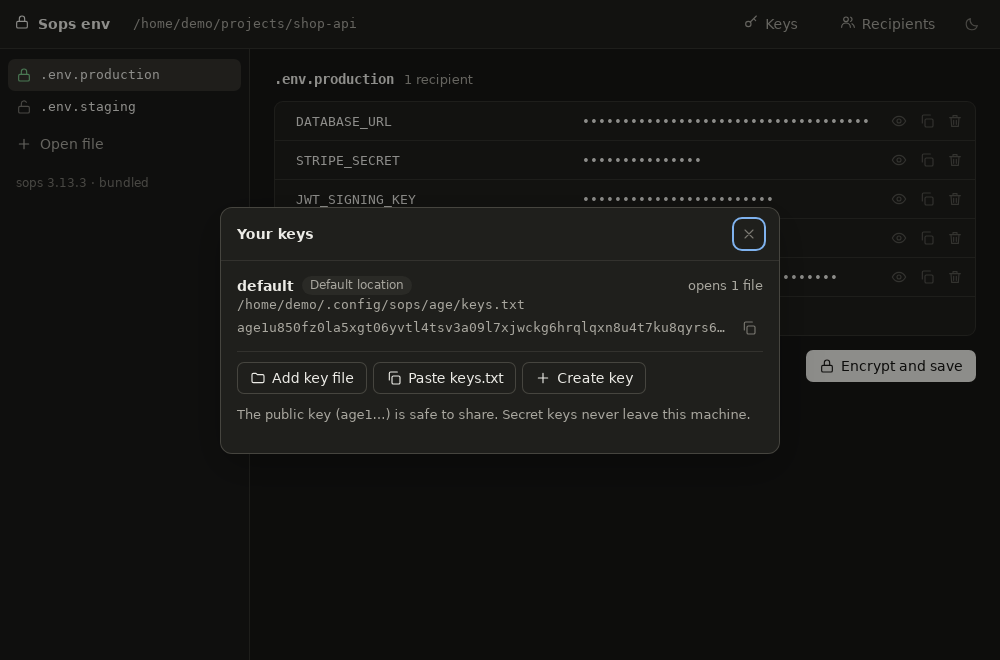
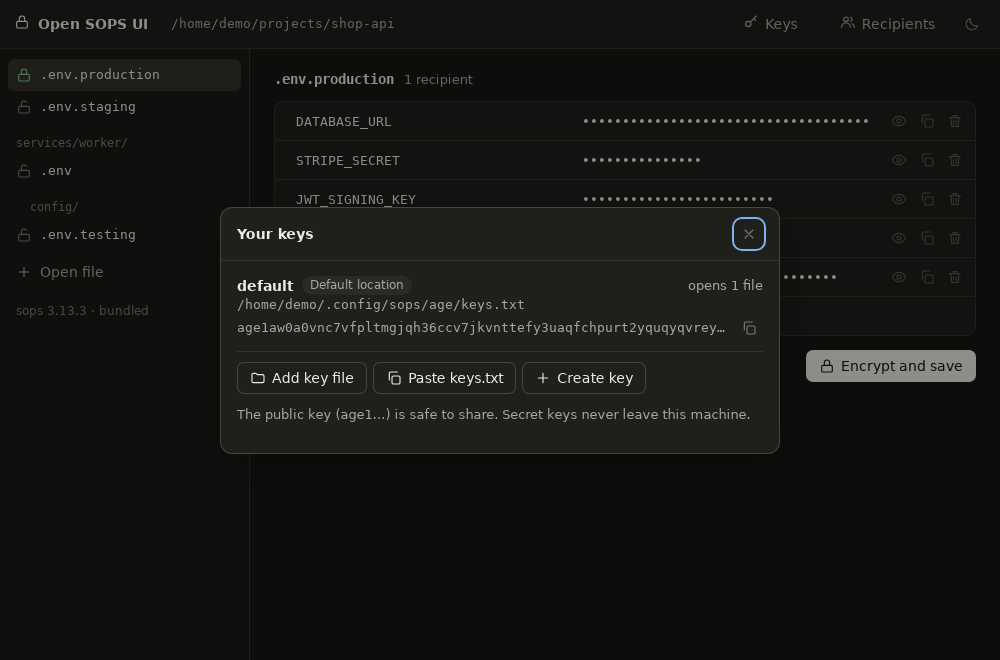
Rename the app to Open SOPS UI, group the file list by folder
- product name, binary (open-sops-ui), identifier, crates, env vars
  and docs use the new name; the old config folder is still read once
  so key paths and saved recipients carry over
- the sidebar lists files under their folder, with nested folders
  indented under their parent, so long paths no longer cut off the
  file name
- the UI test covers files in a subfolder and a nested subfolder
- README screenshots regenerated

diff --git a/ui/app.js b/ui/app.js
@@ -83,9 +83,27 @@ function isDirty() {
 }
 function renderFiles() {
   const icon = { ok: "lock", locked: "lock", plain: "unlock", "plain-risk": "unlock", missing: "file" };
-  $("#files").innerHTML = S.files.map((f, i) =>
-    `<button class="file s-${f.status} ${cur && cur.path === f.path ? "active" : ""}" data-i="${i}" title="${esc(f.note)}">
-      ${ic(icon[f.status])}<span class="mono">${esc(f.name)}</span></button>`).join("") +
+  // Files are grouped under their folder, so long paths don't push the
+  // file name out of view. Files directly in the project come first.
+  const groups = new Map();
+  S.files.forEach((f, i) => {
+    const cut = Math.max(f.name.lastIndexOf("/"), f.name.lastIndexOf("\\"));
+    const dir = cut < 0 ? "" : f.name.slice(0, cut + 1);
+    if (!groups.has(dir)) groups.set(dir, []);
+    groups.get(dir).push({ f, i, base: f.name.slice(cut + 1) });
+  });
+  const button = ({ f, i, base }) =>
+    `<button class="file s-${f.status} ${cur && cur.path === f.path ? "active" : ""}" data-i="${i}" title="${esc(f.name)}\n${esc(f.note)}">
+      ${ic(icon[f.status])}<span class="mono">${esc(base)}</span></button>`;
+  const dirs = [...groups.keys()].filter((d) => d).sort((a, b) => a.localeCompare(b));
+  $("#files").innerHTML = (groups.get("") || []).map(button).join("") +
+    dirs.map((d) => {
+      // A subfolder listed right under its parent shows only the rest of its path, indented.
+      const parent = dirs.filter((p) => p !== d && d.startsWith(p)).sort((x, y) => y.length - x.length)[0];
+      const label = parent ? d.slice(parent.length) : d;
+      return `<div class="dir mono${parent ? " sub" : ""}" title="${esc(d)}"><bdi>${esc(label)}</bdi></div>` +
+        groups.get(d).map(button).join("");
+    }).join("") +
     (S.files.length ? "" : `<div class="muted small" style="padding:6px 8px">No env files in this folder.</div>`) +
     `<button class="file addfile" id="addFile">${ic("plus")}<span>Open file</span></button>` +
     (S.sops.path ? `<div class="sopsinfo" title="${esc(S.sops.path)}">sops ${esc(S.sops.version)} · ${S.sops.source}</div>` : "");
@@ -380,7 +398,7 @@ try {
 
 api("state").then((s) => { setState(s); renderEditor(); }).catch(fail);
 
-// Scripted self-test: loaded only when the app was started with SOPS_ENV_UI_TEST set.
+// Scripted self-test: loaded only when the app was started with OPEN_SOPS_UI_SELFTEST set.
 T.core.invoke("ui_test", { action: "config", body: {} }).then((on) => {
   if (on) document.body.appendChild(Object.assign(document.createElement("script"), { src: "selftest.js" }));
 }).catch(() => {});

diff --git a/ui/selftest.js b/ui/selftest.js
@@ -1,5 +1,5 @@
 // Scripted UI self-test. app.js loads this file only when the app was started
-// with SOPS_ENV_UI_TEST set; it never runs for a normal user.
+// with OPEN_SOPS_UI_SELFTEST set; it never runs for a normal user.
 //
 // It clicks through the main flows in the real window, takes a screenshot at
 // each stage, and reports to the backend, which writes result.json and exits.
@@ -53,6 +53,11 @@
     setTheme("light");
     await until("the file list", () => q("#files .file[data-i]"));
     check(text("#files").includes(".env.production") && text("#files").includes(".env.staging"), "both env files are listed");
+    const dir = q("#files .dir");
+    check(dir && /services[\\/]worker[\\/]$/.test(dir.innerText.trim()), "a file in a subfolder is grouped under its folder");
+    const sub = q("#files .dir.sub");
+    check(sub && /^config[\\/]$/.test(sub.innerText.trim()), "a nested folder shows only its own part, under its parent");
+    check([...document.querySelectorAll("#files .file[data-i] .mono")].every((e) => !/[\\/]/.test(e.innerText)), "file entries show the name without the path");
     check(text(".sopsinfo").startsWith("sops "), "the app found sops");
     check(q("#keysDot").className === "dot", "a missing key is flagged");
     await shot("01-start-without-key");

diff --git a/ui/style.css b/ui/style.css
@@ -59,6 +59,11 @@ aside { background: var(--side); border-right: 1px solid var(--line); padding: 1
 .file span { overflow: hidden; text-overflow: ellipsis; white-space: nowrap; }
 .s-ok svg { color: var(--ok); } .s-locked svg { color: var(--bad); } .s-plain-risk svg { color: var(--warn); }
 .s-plain svg, .s-missing svg { color: var(--muted); }
+/* Folder heading in the file list; a long path is cut on the left so its end stays readable. */
+.dir { color: var(--muted); font-size: 12px; padding: 12px 8px 3px; overflow: hidden; text-overflow: ellipsis;
+  white-space: nowrap; direction: rtl; text-align: left; }
+.dir.sub { padding-left: 22px; }
+.filehead .name { overflow-wrap: anywhere; }
 .addfile { color: var(--text2); margin-top: 4px; }
 .sopsinfo { color: var(--muted); font-size: 12px; padding: 14px 8px 2px; }
 

diff --git a/ui/index.html b/ui/index.html
@@ -3,12 +3,12 @@
 <head>
 <meta charset="utf-8">
 <meta name="viewport" content="width=device-width, initial-scale=1">
-<title>Sops Env</title>
+<title>Open SOPS UI</title>
 <link rel="stylesheet" href="style.css">
 </head>
 <body>
 <header>
-  <span class="title"><span data-ic="lock"></span>Sops env</span>
+  <span class="title"><span data-ic="lock"></span>Open SOPS UI</span>
   <button class="btn ghost folder mono" id="folderBtn" title="Change folder"></button>
   <span class="spacer"></span>
   <button class="btn ghost" id="keysBtn"><span data-ic="key"></span>Keys<span id="keysDot"></span></button>

diff --git a/core/src/lib.rs b/core/src/lib.rs
@@ -1,4 +1,4 @@
-//! Backend logic for sops-env. No GUI code lives here, so it can be tested
+//! Backend logic for open-sops-ui. No GUI code lives here, so it can be tested
 //! on its own against a real `sops` binary.
 //!
 //! The UI talks to [`App::handle`] with an action name and a JSON body.
@@ -19,8 +19,8 @@ use serde::{Deserialize, Serialize};
 use serde_json::{json, Value};
 
 const DOTENV: [&str; 4] = ["--input-type", "dotenv", "--output-type", "dotenv"];
-const EDIT_ADDR: &str = "SOPS_ENV_EDIT_ADDR";
-const EDIT_TOKEN: &str = "SOPS_ENV_EDIT_TOKEN";
+const EDIT_ADDR: &str = "OPEN_SOPS_UI_EDIT_ADDR";
+const EDIT_TOKEN: &str = "OPEN_SOPS_UI_EDIT_TOKEN";
 
 type Res<T> = Result<T, String>;
 
@@ -148,14 +148,14 @@ pub fn default_key_path() -> PathBuf {
 }
 
 fn config_path() -> PathBuf {
-    config_base().join("sops-env").join("config.json")
+    config_base().join("open-sops-ui").join("config.json")
 }
 
 /// sops looks for .sops.yaml upward from its working directory and fails when
 /// one exists but no rule matches, even with explicit recipients. Calls that
 /// must not depend on a project's config run from this folder instead.
 fn neutral_dir() -> Option<PathBuf> {
-    let dir = config_base().join("sops-env");
+    let dir = config_base().join("open-sops-ui");
     std::fs::create_dir_all(&dir).ok().map(|_| dir)
 }
 
@@ -180,7 +180,11 @@ struct BookEntry {
 }
 
 fn load_config() -> Config {
+    // The app was called "Sops Env" in its first pre-releases; fall back to
+    // that config so custom key paths and saved recipients carry over.
+    let legacy = config_base().join("sops-env").join("config.json");
     std::fs::read_to_string(config_path())
+        .or_else(|_| std::fs::read_to_string(legacy))
         .ok()
         .and_then(|t| serde_json::from_str(&t).ok())
         .unwrap_or_default()

diff --git a/src-tauri/src/main.rs b/src-tauri/src/main.rs
@@ -6,8 +6,8 @@ mod ui_test;
 use std::path::{Path, PathBuf};
 use std::sync::Mutex;
 
+use open_sops_ui_core::App;
 use serde_json::Value;
-use sops_env_core::App;
 use tauri::Manager;
 
 struct Shared(Mutex<App>);
@@ -42,11 +42,11 @@ fn bundled_dirs(exe: &Path, resource_dir: Option<PathBuf>) -> Vec<PathBuf> {
     dirs
 }
 
-/// `sops-env --self-check [file]` reports, without opening a window, which
+/// `open-sops-ui --self-check [file]` reports, without opening a window, which
 /// sops the installed app would use. CI runs it against the built packages.
 /// The report also goes to `file`, because a Windows GUI binary has no console.
 fn self_check(bundled: &[PathBuf], version: &str, out_file: Option<&String>) -> ! {
-    let report = sops_env_core::self_check(bundled, version);
+    let report = open_sops_ui_core::self_check(bundled, version);
     let text = serde_json::to_string_pretty(&report).unwrap_or_default();
     if let Some(path) = out_file {
         if std::fs::write(path, &text).is_err() {
@@ -63,7 +63,7 @@ fn self_check(bundled: &[PathBuf], version: &str, out_file: Option<&String>) -> 
 
 fn main() {
     // `sops edit` starts this same binary as its editor; see the core crate.
-    if let Some(code) = sops_env_core::run_as_editor_if_requested() {
+    if let Some(code) = open_sops_ui_core::run_as_editor_if_requested() {
         std::process::exit(code);
     }
 
@@ -95,5 +95,5 @@ fn main() {
         })
         .invoke_handler(tauri::generate_handler![api, ui_test::ui_test])
         .run(context)
-        .expect("failed to start sops-env");
+        .expect("failed to start open-sops-ui");
 }

diff --git a/core/tests/flow.rs b/core/tests/flow.rs
@@ -1,7 +1,7 @@
 //! End-to-end test against a real `sops` binary with throwaway keys.
 //! Everything runs inside a temp folder; the user's own keys.txt is never read.
+use open_sops_ui_core::App;
 use serde_json::{json, Value};
-use sops_env_core::App;
 use std::path::PathBuf;
 
 fn pubs(state: &Value, kind: &str) -> Vec<String> {
@@ -27,7 +27,7 @@ fn status(state: &Value, name: &str) -> String {
 
 #[test]
 fn full_flow() {
-    let root = std::env::temp_dir().join(format!("sops-env-test-{}", std::process::id()));
+    let root = std::env::temp_dir().join(format!("open-sops-ui-test-{}", std::process::id()));
     let _ = std::fs::remove_dir_all(&root);
     let demo = root.join("demo");
     std::fs::create_dir_all(&demo).unwrap();
@@ -37,8 +37,8 @@ fn full_flow() {
     std::env::remove_var("SOPS_AGE_KEY_FILE");
     std::env::remove_var("SOPS_AGE_KEY");
 
-    // SOPS_ENV_TEST_EDITOR lets the same test exercise the desktop binary's editor mode.
-    let helper = std::env::var_os("SOPS_ENV_TEST_EDITOR")
+    // OPEN_SOPS_UI_TEST_EDITOR lets the same test exercise the desktop binary's editor mode.
+    let helper = std::env::var_os("OPEN_SOPS_UI_TEST_EDITOR")
         .map(PathBuf::from)
         .unwrap_or_else(|| PathBuf::from(env!("CARGO_BIN_EXE_edit-helper")));
     let mut app = App::new(Some(demo.clone()), vec![], helper.clone());

diff --git a/src-tauri/src/ui_test.rs b/src-tauri/src/ui_test.rs
@@ -1,6 +1,6 @@
 //! Support for the scripted UI self-test.
 //!
-//! When the app is started with `SOPS_ENV_UI_TEST=<folder>`, the frontend
+//! When the app is started with `OPEN_SOPS_UI_SELFTEST=<folder>`, the frontend
 //! loads `ui/selftest.js`, which clicks through the app in its real window.
 //! That works on every platform, including macOS, where no WebDriver exists
 //! for the system web view. This module gives the script what the page can't
@@ -14,7 +14,7 @@ use std::process::{Command, Stdio};
 use serde_json::{json, Value};
 
 fn output_dir() -> Option<PathBuf> {
-    std::env::var_os("SOPS_ENV_UI_TEST")
+    std::env::var_os("OPEN_SOPS_UI_SELFTEST")
         .filter(|v| !v.is_empty())
         .map(PathBuf::from)
 }
@@ -44,7 +44,7 @@ fn screenshot(file: &Path) -> bool {
     } else {
         // ImageMagick; needs an X11 display (Xvfb in CI).
         let mut c = Command::new("import");
-        c.args(["-window", "Sops Env", &path]);
+        c.args(["-window", "Open SOPS UI", &path]);
         c
     };
     cmd.stdin(Stdio::null())

diff --git a/core/src/bin/edit-helper.rs b/core/src/bin/edit-helper.rs
@@ -1,5 +1,5 @@
 //! Test-only stand-in for the desktop app's editor mode. The real app calls
 //! `run_as_editor_if_requested` at the top of its own `main`.
 fn main() {
-    std::process::exit(sops_env_core::run_as_editor_if_requested().unwrap_or(2));
+    std::process::exit(open_sops_ui_core::run_as_editor_if_requested().unwrap_or(2));
 }

diff --git a/AGENTS.md b/AGENTS.md
@@ -1,22 +1,22 @@
-# Agent guide for Sops Env
+# Agent guide for Open SOPS UI
 
 A Tauri 2 desktop app for SOPS-encrypted env files. See [README.md](README.md) for what it does and how to build it.
 
 ## Layout
 
-- `core/`: the `sops-env-core` crate. All backend logic: keys, env parsing, `.sops.yaml` rules, calls to `sops`. No GUI dependencies, so it compiles and tests without WebKit.
+- `core/`: the `open-sops-ui-core` crate. All backend logic: keys, env parsing, `.sops.yaml` rules, calls to `sops`. No GUI dependencies, so it compiles and tests without WebKit.
   - `src/lib.rs`: `App::handle(action, body)` is the single entry point the UI calls.
   - `tests/flow.rs`: end-to-end test against a real `sops`.
   - `src/bin/edit-helper.rs`: test-only stand-in for the app's editor mode.
 - `src-tauri/`: the desktop shell. `src/main.rs` wires one `api` command to `App::handle`. `tauri.conf.json` holds window, CSP and bundle settings; `capabilities/default.json` the permissions.
 - `ui/`: the frontend. `index.html`, `style.css`, `app.js`. Vanilla JS, no bundler, no dependencies.
-- `ui/selftest.js` and `src-tauri/src/ui_test.rs`: the scripted UI self-test. With `SOPS_ENV_UI_TEST=<folder>` set, the app clicks through itself, takes screenshots and exits. Inactive otherwise.
+- `ui/selftest.js` and `src-tauri/src/ui_test.rs`: the scripted UI self-test. With `OPEN_SOPS_UI_SELFTEST=<folder>` set, the app clicks through itself, takes screenshots and exits. Inactive otherwise.
 - `ui-tests/selftest.mjs`: runs that test against a binary with throwaway folders and checks the files on disk. Plain Node, no dependencies.
 - `.github/workflows/build.yml`: on pull requests, pushes to `main`, weekly, and called by the release workflow. Jobs: `build` (tests, packages, smoke test and UI test per platform), `distros` (packages installed and UI-tested in distribution containers), `os-versions` (UI test on the older macOS runners), `screenshots` (one artifact with every platform's pictures).
 - `.github/workflows/release.yml`: on `v*` tags. Checks the tag against `tauri.conf.json`, calls `build.yml`, then publishes a GitHub release. A tag with a `-suffix` becomes a pre-release.
 - `.github/workflows/audit.yml`: weekly `cargo audit` and `npm audit`.
 - `scripts/fetch-sops.sh`: downloads the pinned sops into `vendor/sops/` (git-ignored) and verifies it with cosign and SHA-256. The `SOPS_VERSION` line carries a Renovate comment; keep its format, `renovate.json` matches it with a regex.
-- `scripts/smoke-test.sh`: installs the built package and runs `sops-env --self-check` (CI only; it installs the app).
+- `scripts/smoke-test.sh`: installs the built package and runs `open-sops-ui --self-check` (CI only; it installs the app).
 - `scripts/ui-test.sh`, `scripts/distro-test.sh`: run the UI test, on a runner or inside a distribution container.
 - `scripts/collect-bundles.sh`, `scripts/ci-annotate.sh`: CI helpers for package names and public failure annotations.
 - `app-icon.svg`: icon source. Regenerate with `npx tauri icon app-icon.svg`, then delete `src-tauri/icons/android` and `ios`.
@@ -24,7 +24,7 @@ A Tauri 2 desktop app for SOPS-encrypted env files. See [README.md](README.md) f
 ## Commands
 
 ```bash
-cargo test -p sops-env-core
+cargo test -p open-sops-ui-core
 ```
 
 ```bash
@@ -58,11 +58,11 @@ npm run build
 
 The project is kept up to date by Renovate with auto-merge, so the tests are the safety net. Every change needs a test that would fail without it.
 
-- **Backend:** `cargo test -p sops-env-core`. `tests/flow.rs` is one end-to-end flow against a real sops; extend it when you add or change an action. Set `SOPS_ENV_TEST_EDITOR` to the built desktop binary to run the same flow through its editor mode.
-- **UI:** `node ui-tests/selftest.mjs target/release/sops-env`. The steps live in `ui/selftest.js`; extend them when you change `ui/` or add a flow, add a `shot(...)` for every new screen, and update `EXPECTED` and `EXPECTED_SHOTS` in `ui-tests/selftest.mjs`. Native file dialogs can't be driven; the test passes the folder as an argument instead. Wait for a specific element, never for text that is also in a static hint.
+- **Backend:** `cargo test -p open-sops-ui-core`. `tests/flow.rs` is one end-to-end flow against a real sops; extend it when you add or change an action. Set `OPEN_SOPS_UI_TEST_EDITOR` to the built desktop binary to run the same flow through its editor mode.
+- **UI:** `node ui-tests/selftest.mjs target/release/open-sops-ui`. The steps live in `ui/selftest.js`; extend them when you change `ui/` or add a flow, add a `shot(...)` for every new screen, and update `EXPECTED` and `EXPECTED_SHOTS` in `ui-tests/selftest.mjs`. Native file dialogs can't be driven; the test passes the folder as an argument instead. Wait for a specific element, never for text that is also in a static hint.
 - **README pictures:** `docs/screenshots/` comes from the same UI test. After a visible UI change, regenerate with `scripts/readme-screenshots.sh <with-sops .deb>` (needs Docker); it runs in a clean container so no local paths end up in the pictures.
 - **Screenshots:** every CI run publishes a `screenshots` artifact. Look at them after changing styles or layout; they have already caught a rendering bug no assertion would.
-- **Packages:** `sops-env --self-check [file]` reports as JSON which sops the app would use, without opening a window. `scripts/smoke-test.sh` relies on it.
+- **Packages:** `open-sops-ui --self-check [file]` reports as JSON which sops the app would use, without opening a window. `scripts/smoke-test.sh` relies on it.
 - **Tested systems:** the "Tested on" table in the README mirrors the matrices in `build.yml`. Change both together.
 - **sops versions:** CI tests the pinned version on all platforms and the oldest supported one on Linux. The floor is `MIN_SOPS_VERSION` in `core/src/lib.rs` and in `build.yml`; change both together, and the README.
 - Tests set `XDG_CONFIG_HOME` (and `AppData`) to a temp folder. Do the same when running the app by hand, so the real `keys.txt` and config are never touched.

diff --git a/README.md b/README.md
@@ -1,4 +1,4 @@
-# Sops Env
+# Open SOPS UI
 
 A desktop app for viewing, editing and encrypting env files with [SOPS](https://github.com/getsops/sops) and age keys. Built with [Tauri](https://tauri.app) for Linux, Windows and macOS.
 
@@ -45,10 +45,10 @@ Other systems may work but aren't checked. The Linux packages need at least the 
    | macOS | `.dmg` |
    | Windows | `.msi` or `-setup.exe` |
 
-3. Start "Sops Env" from your app menu, or from a terminal with a project folder:
+3. Start "Open SOPS UI" from your app menu, or from a terminal with a project folder:
 
    ```bash
-   sops-env path/to/project
+   open-sops-ui path/to/project
    ```
 
 A `sops` binary shipped with the app, or placed next to it, is used first; otherwise the one on your `PATH`.
@@ -102,13 +102,13 @@ The bundled `sops` version is pinned in `scripts/fetch-sops.sh`. The script veri
 Backend, against your installed `sops` with throwaway keys in a temp folder (skipped when `sops` isn't installed):
 
 ```bash
-cargo test -p sops-env-core
+cargo test -p open-sops-ui-core
 ```
 
 UI: the app clicks through itself in its real window, takes a screenshot at each stage, and the result is checked on disk with `sops`. It needs a display and, on Linux, ImageMagick for the screenshots:
 
 ```bash
-node ui-tests/selftest.mjs target/release/sops-env
+node ui-tests/selftest.mjs target/release/open-sops-ui
 ```
 
 Screenshots land in `ui-test-output/`. The test uses its own temp folders; your keys and config aren't touched.
@@ -141,7 +141,7 @@ Not covered by any test: native file dialogs, the clipboard, the `.msi` installe
 | macOS | `$XDG_CONFIG_HOME/sops/age/keys.txt` or `~/Library/Application Support/sops/age/keys.txt` |
 | Windows | `%AppData%\sops\age\keys.txt` |
 
-Custom key paths, saved recipients and the last folder are stored in `sops-env/config.json` next to the `sops` folder above. Secret keys are never written there.
+Custom key paths, saved recipients and the last folder are stored in `open-sops-ui/config.json` next to the `sops` folder above. Secret keys are never written there.
 
 ## Limits
 
